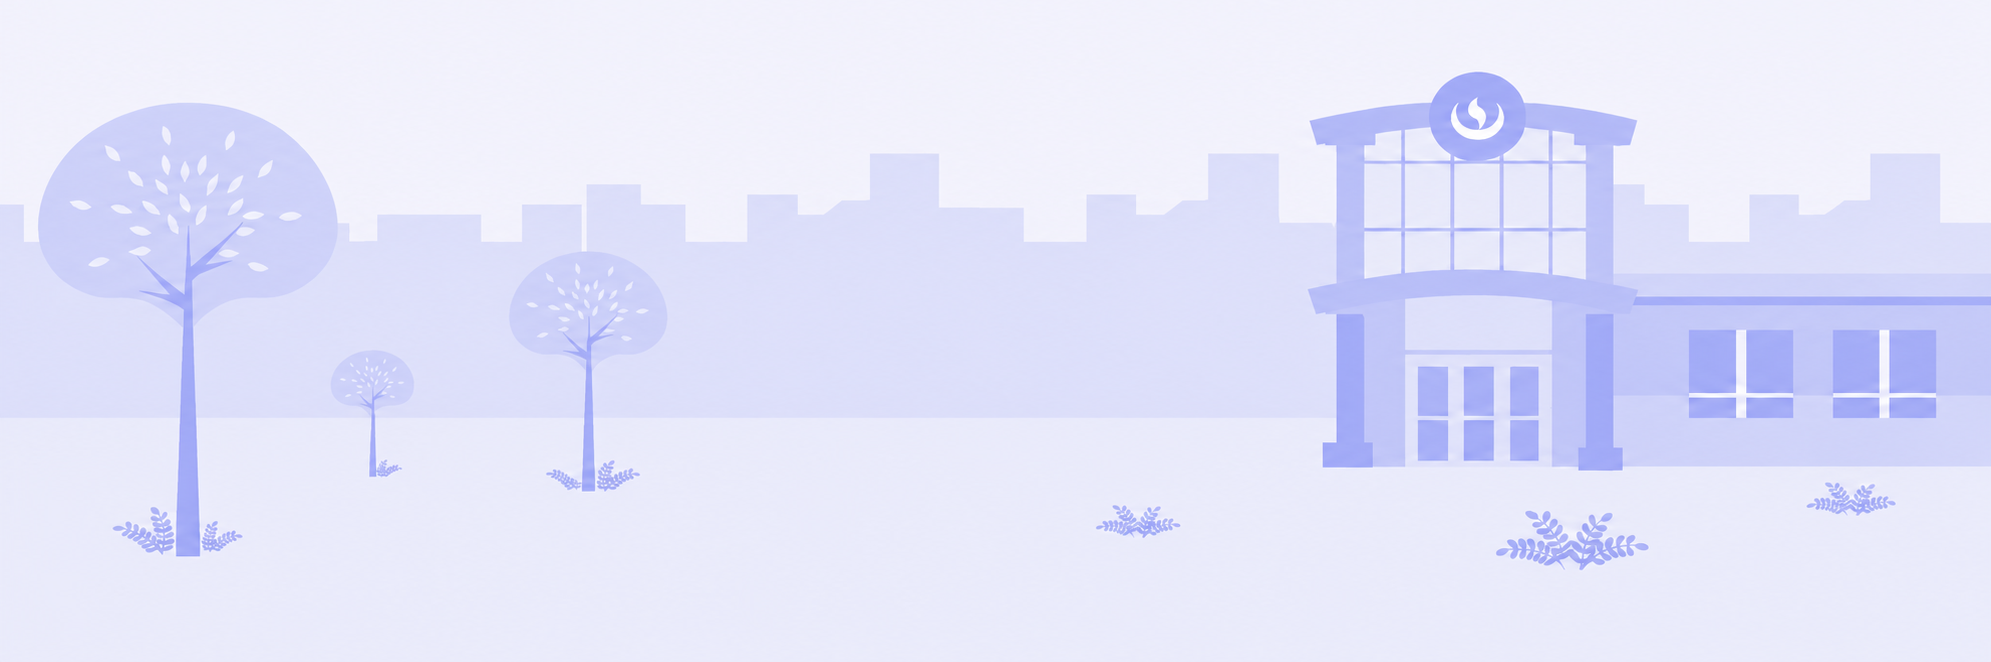
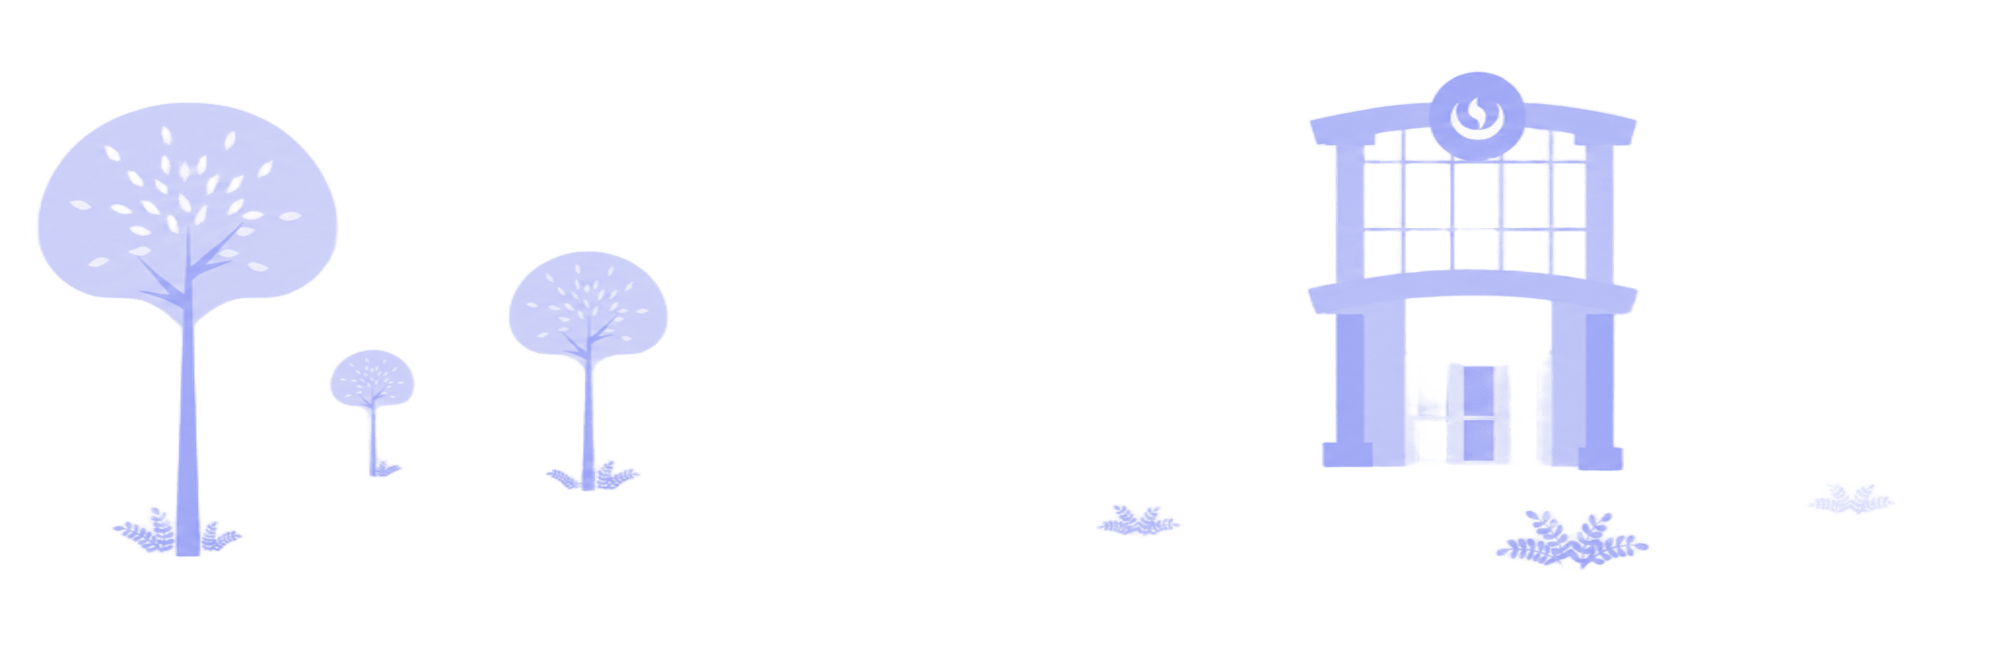
sasas

diff --git a/css/TIU.css b/css/TIU.css
@@ -100,7 +100,7 @@ body {
     background-size: 80% 120%;
     z-index: 2;
     pointer-events: none;
-    animation: moverNubes 6s linear infinite;
+    animation: moverNubes 5s linear infinite;
 
     /* --- Agrega esto para igualar el color azul/lila vivo --- */
     filter: drop-shadow(0px 0px 0px #dedafe);
@@ -135,7 +135,7 @@ body {
 .app-container::after {
     content: "";
     position: absolute;
-    top: calc(35% + 60px);
+    top: calc(35% + 90px);
     bottom: 0;
     left: -60px;
     width: 130%;